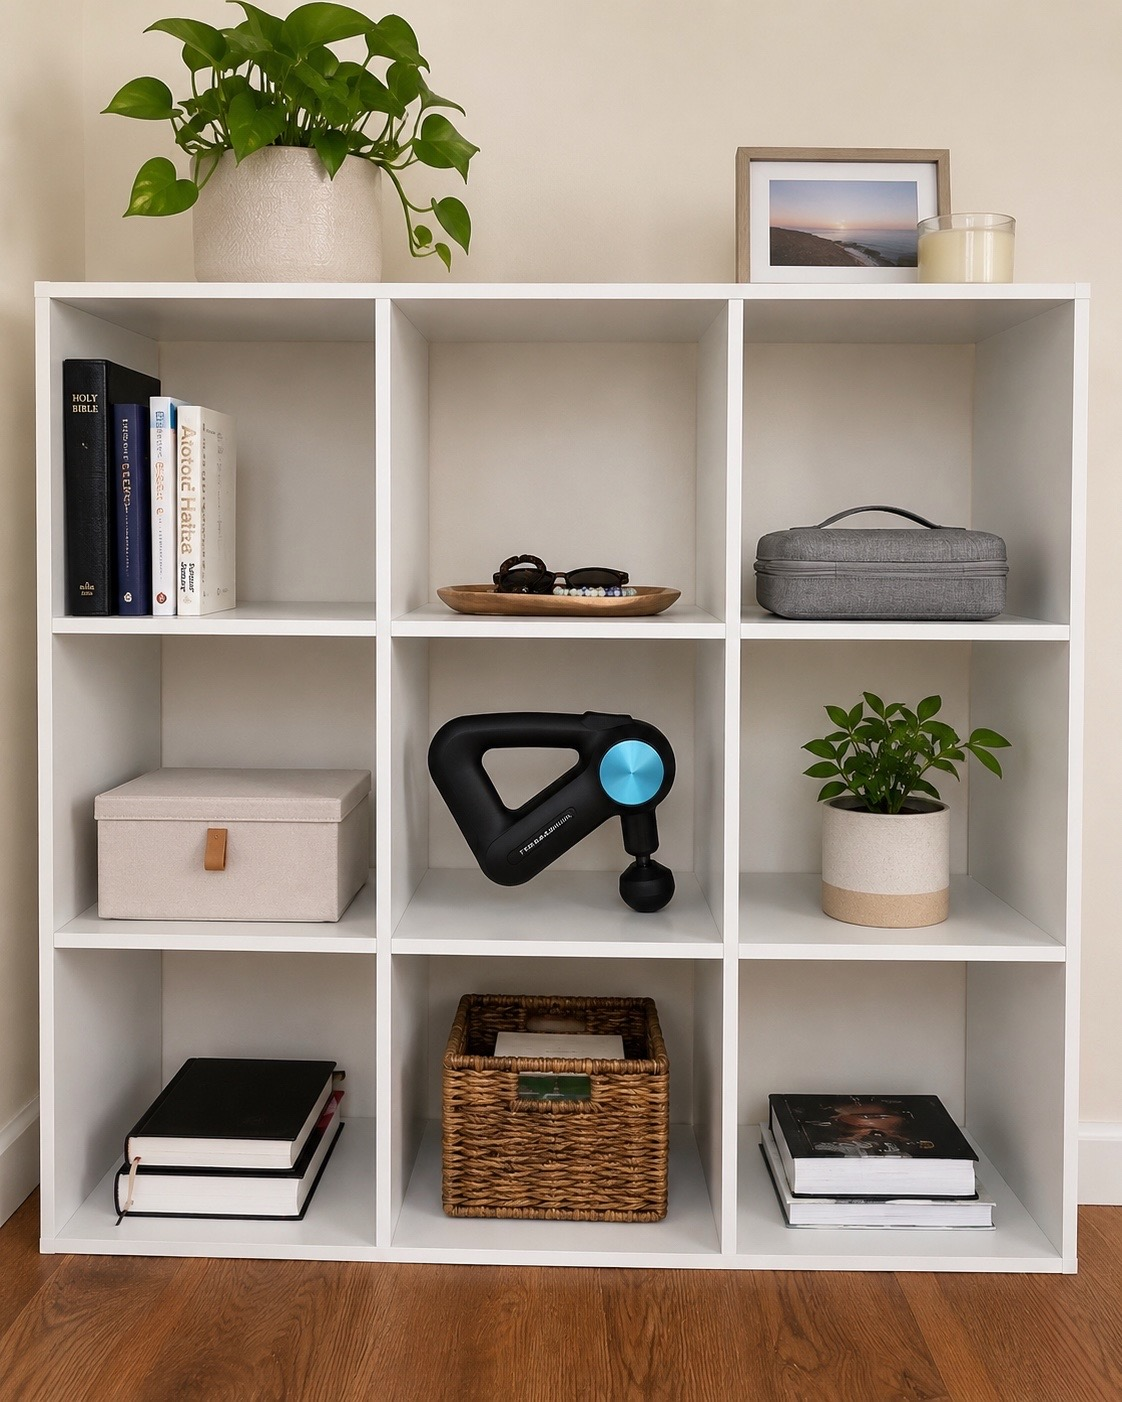
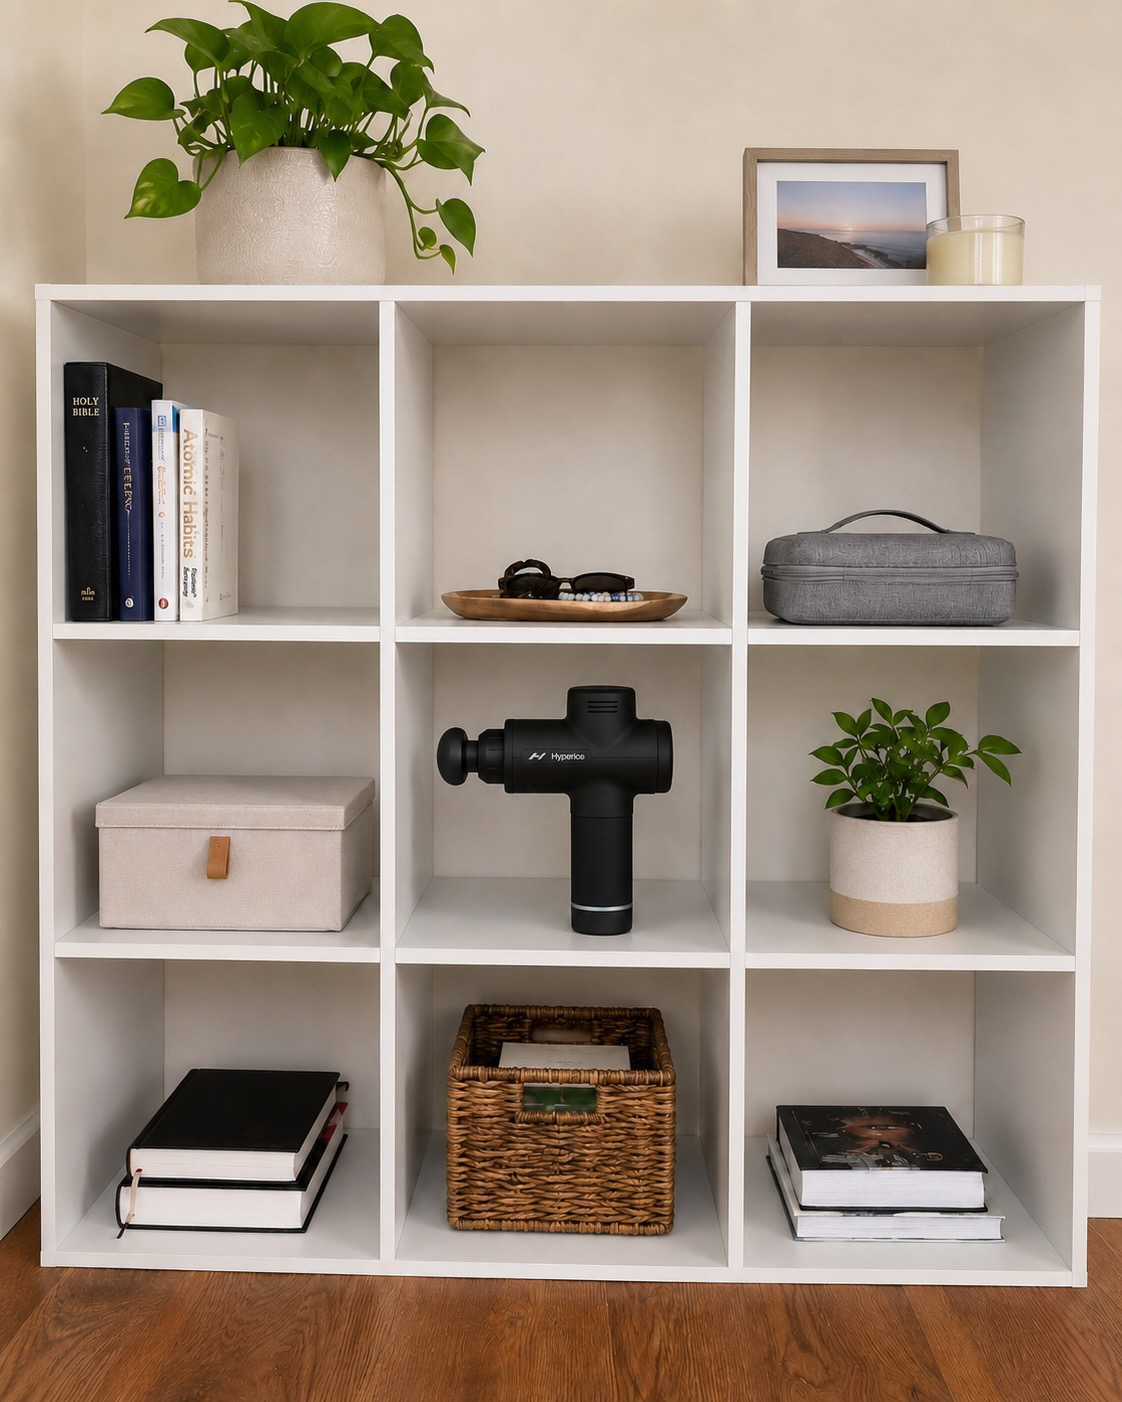
all

diff --git a/index.html b/index.html
@@ -50,6 +50,11 @@
   /* Free items: show the FULL image (no cropping), capped height */
   .card.free .imgbox{aspect-ratio:auto; height:auto; padding:12px;}
   .card.free .imgbox img{width:auto; height:auto; max-width:100%; max-height:300px; object-fit:contain;}
+  /* extra detail photos */
+  .thumbs{display:flex; gap:8px; padding:10px 16px 0; flex-wrap:wrap;}
+  .thumbs figure{margin:0; text-align:center;}
+  .thumbs img{width:72px; height:72px; object-fit:cover; border-radius:8px; border:1px solid var(--line); display:block;}
+  .thumbs figcaption{font-size:.7rem; color:var(--muted); margin-top:3px;}
   .card .body{padding:14px 16px 16px;}
   .card h2{margin:0 0 8px; font-size:1.15rem;}
   .card .desc{color:var(--muted); font-size:.92rem; margin:0 0 12px;}
@@ -117,6 +122,10 @@
 
       <div class="card">
         <div class="imgbox"><img src="images/piano_1.jpeg" alt="Yamaha C3 grand piano 雅马哈C3三角钢琴"></div>
+        <div class="thumbs">
+          <figure><a href="images/piano_2.jpeg" target="_blank" rel="noopener"><img src="images/piano_2.jpeg" alt="Key wood detail 琴键木头细节"></a><figcaption>琴键细节 · Keys</figcaption></figure>
+          <figure><a href="images/piano_number.jpeg" target="_blank" rel="noopener"><img src="images/piano_number.jpeg" alt="Serial number 编码"></a><figcaption>编码 · Serial</figcaption></figure>
+        </div>
         <div class="body">
           <h2>Yamaha C3 Grand Piano · 雅马哈 C3 三角钢琴</h2>
           <p class="desc">
@@ -135,6 +144,9 @@
 
       <div class="card">
         <div class="imgbox"><img src="images/小冰箱_1.jpeg" alt="Mini fridge 小冰箱"></div>
+        <div class="thumbs">
+          <figure><a href="images/小冰箱_2.jpeg" target="_blank" rel="noopener"><img src="images/小冰箱_2.jpeg" alt="Mini fridge photo 2 小冰箱"></a><figcaption>另一张 · More</figcaption></figure>
+        </div>
         <div class="body">
           <h2>Mini Fridge · 小冰箱</h2>
           <div class="meta">
@@ -146,6 +158,9 @@
 
       <div class="card">
         <div class="imgbox"><img src="images/冰柜0.jpeg.jpeg" alt="Refrigerator with freezer 冰箱冷冻"></div>
+        <div class="thumbs">
+          <figure><a href="images/冰柜1.jpeg" target="_blank" rel="noopener"><img src="images/冰柜1.jpeg" alt="Refrigerator photo 2 冰箱"></a><figcaption>另一张 · More</figcaption></figure>
+        </div>
         <div class="body">
           <h2>Refrigerator (with Freezer) · 冰箱（冷冻）</h2>
           <p class="desc">
@@ -165,21 +180,6 @@
           <h2>Freezer · 冰柜</h2>
           <div class="meta">
             <span class="price">$20</span>
-            <span class="badge avail">Available 可购</span>
-          </div>
-        </div>
-      </div>
-
-      <div class="card">
-        <div class="imgbox"><img src="images/microwave.jpeg" alt="Microwave 微波炉"></div>
-        <div class="body">
-          <h2>Microwave · 微波炉</h2>
-          <p class="desc">
-            1000 W high power.<br>
-            1000 瓦大功率。
-          </p>
-          <div class="meta">
-            <span class="price">$30</span>
             <span class="badge avail">Available 可购</span>
           </div>
         </div>